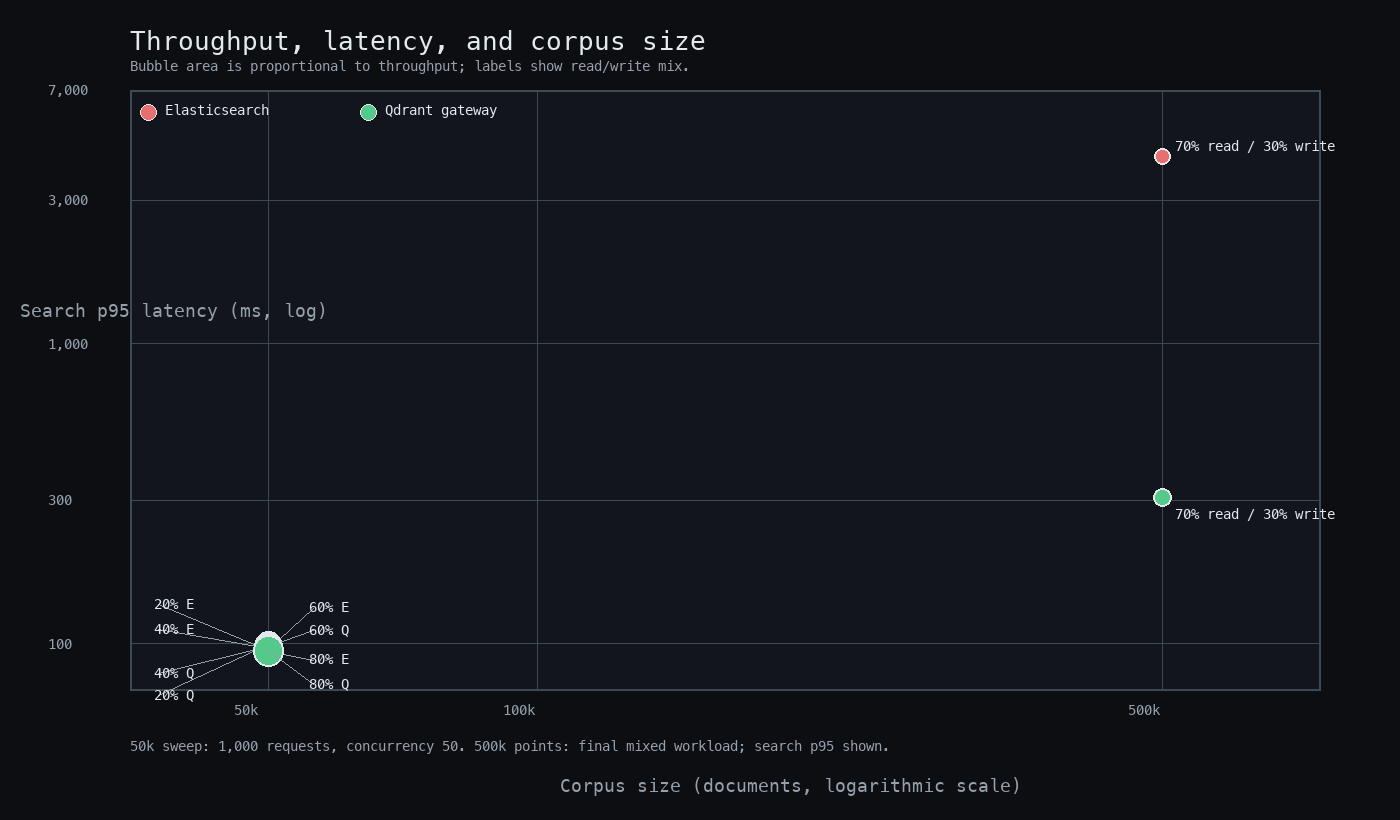
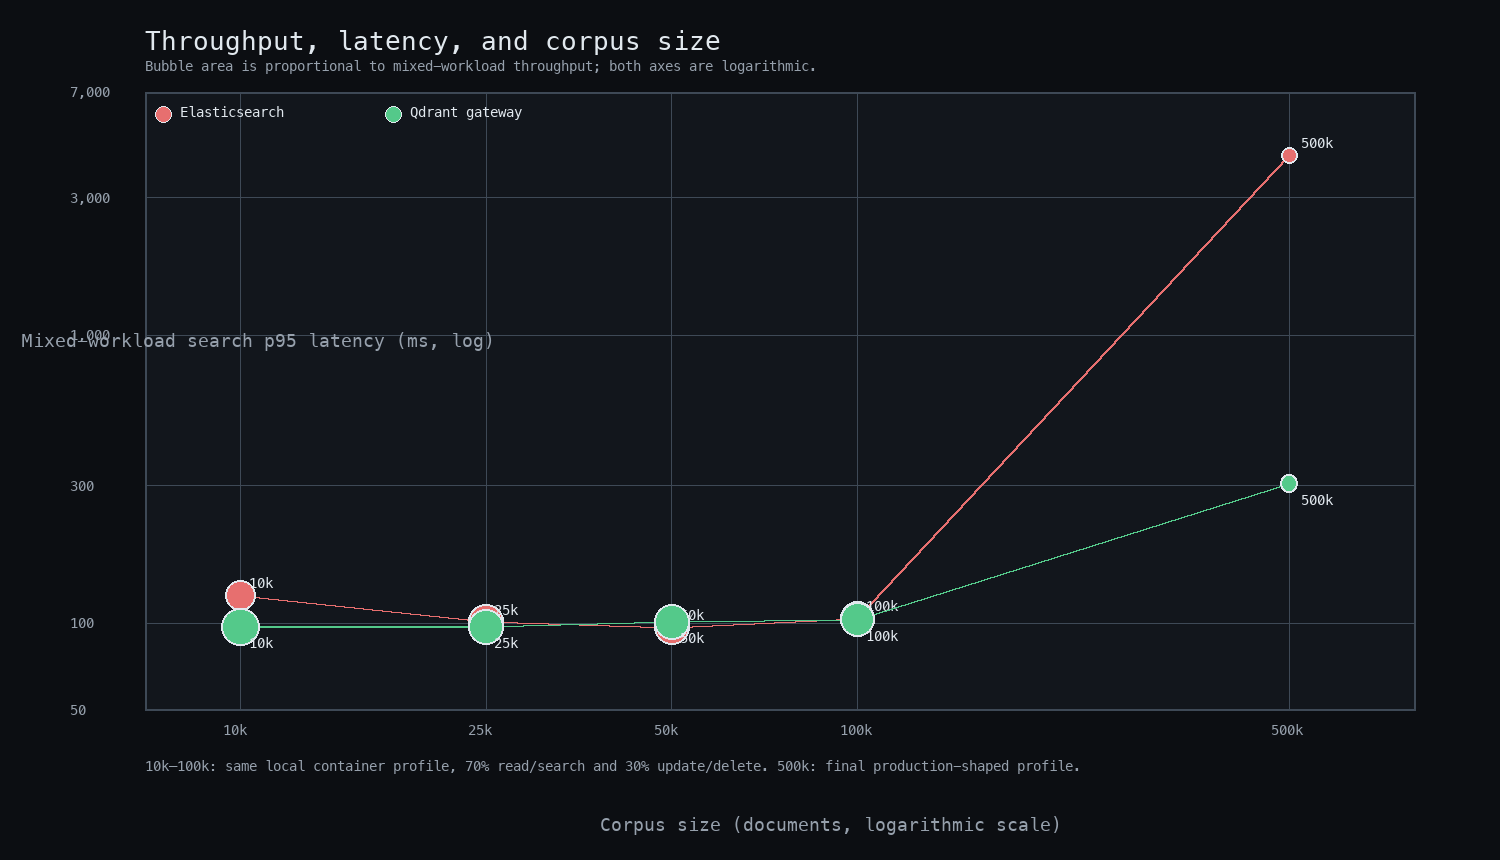
Expand corpus scaling data

diff --git a/docs/read-write-crossover.md b/docs/read-write-crossover.md
@@ -31,3 +31,17 @@ The 500,000-document mixed run reinforces the shape of the result. With 70% sear
 For a catalog workload dominated by imports, synchronous writes, or strict read-after-write requirements, native Elasticsearch remains the safer baseline. For a product experience dominated by retrieval—especially when updates can flow through an event queue or tolerate a short freshness delay—the gateway becomes increasingly attractive.
 
 The next production decision should be based on the application’s freshness contract: measure the acceptable update-to-search delay, then place the workload on this curve using the same query mix and concurrency as the real service.
+
+## Additional corpus scaling points
+
+To make the bubble chart less dependent on the two original points, the same mixed workload was repeated at four smaller corpus sizes. These runs used the current gateway build, 50 concurrent clients, 1,000 mixed requests, and the existing 70% read/search versus 30% update/delete composition.
+
+| Corpus | Elasticsearch throughput | Qdrant gateway throughput | Elasticsearch mixed search p95 | Qdrant gateway mixed search p95 |
+|---:|---:|---:|---:|---:|
+| 10,000 | 749.48 req/s | 1,192.41 req/s | 125.06 ms | 97.10 ms |
+| 25,000 | 982.57 req/s | 1,011.40 req/s | 101.34 ms | 97.23 ms |
+| 50,000 | 1,037.89 req/s | 1,010.64 req/s | 96.90 ms | 101.20 ms |
+| 100,000 | 935.91 req/s | 986.74 req/s | 103.94 ms | 102.97 ms |
+| 500,000 | 77.42 req/s | 263.32 req/s | 4,213.60 ms | 305.82 ms |
+
+The 10k–100k points were collected in the local four-CPU container profile. The 500k point is the previously captured production-shaped run, so it is useful for scale context but should not be treated as a perfectly controlled continuation of the smaller points. That distinction is called out directly in the chart.
